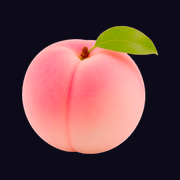
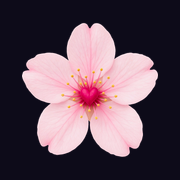
로딩 화면에 피어나는 도화 사진을 넣고 브랜드 아이콘을 벚꽃으로 변경
- 분석·리포트 대기 화면에서 봉오리가 활짝 핀 꽃으로 피어나도록 실사 4단계 사진을 겹쳐 보여줌
- 분석 중 문구를 3개로 줄이고 2초씩 보여줌
- 파비콘·앱 아이콘·로고를 벚꽃으로 바꾸고, 헤더에는 '도화사주' 글자만 남김
- 리뷰 영역의 쓰지 않는 코드 정리

diff --git a/src/components/result/ReportWaiting.tsx b/src/components/result/ReportWaiting.tsx
@@ -4,12 +4,15 @@ import { AnimatePresence, motion } from "motion/react";
 import { useRouter } from "next/navigation";
 import { useCallback, useEffect, useState } from "react";
 import { Button } from "@/components/ui/Button";
-import { LogoMark } from "@/components/ui/LogoMark";
+import { BloomingBlossom } from "@/components/ui/BloomingBlossom";
 import { REPORT_WRITING_MESSAGES } from "@/lib/constants/service";
 
 const POLL_INTERVAL_MS = 3000;
 const MESSAGE_INTERVAL_MS = 4000;
 const GIVE_UP_AFTER_MS = 6 * 60 * 1000;
+/** 리포트는 보통 1~2분 걸리니, 그동안 꽃이 천천히 거의 다 피도록 한다. 실제 진행률은 아니다. */
+const BLOOM_TIME_CONSTANT_MS = 45 * 1000;
+const MAX_PENDING_BLOOM = 0.95;
 
 type Phase = "writing" | "failed";
 
@@ -19,6 +22,19 @@ export function ReportWaiting({ token, failed }: { token: string; failed: boolea
   const [phase, setPhase] = useState<Phase>(failed ? "failed" : "writing");
   const [messageIndex, setMessageIndex] = useState(0);
   const [retryError, setRetryError] = useState<string | null>(null);
+  const [elapsedMs, setElapsedMs] = useState(0);
+
+  useEffect(() => {
+    if (phase !== "writing") return;
+    const startedAt = Date.now();
+    const timer = window.setInterval(() => setElapsedMs(Date.now() - startedAt), 1000);
+    return () => {
+      window.clearInterval(timer);
+      setElapsedMs(0);
+    };
+  }, [phase]);
+
+  const bloom = Math.min(1 - Math.exp(-elapsedMs / BLOOM_TIME_CONSTANT_MS), MAX_PENDING_BLOOM);
 
   useEffect(() => {
     if (phase !== "writing") return;
@@ -84,7 +100,7 @@ export function ReportWaiting({ token, failed }: { token: string; failed: boolea
       <div className="relative flex h-40 w-40 items-center justify-center">
         <div className="absolute inset-0 rounded-full border border-line animate-spin-celestial" />
         <div className="absolute inset-0 rounded-full bg-cinnabar/10 blur-2xl animate-breathe" />
-        <LogoMark size={64} className="relative animate-breathe" />
+        <BloomingBlossom bloom={bloom} size={128} />
       </div>
 
       <AnimatePresence mode="wait">

diff --git a/src/components/ui/BloomingBlossom.tsx b/src/components/ui/BloomingBlossom.tsx
@@ -1,0 +1,39 @@
+import Image from "next/image";
+
+type BloomingBlossomProps = {
+  /** 0이면 닫힌 봉오리, 1이면 활짝 핀 꽃 */
+  bloom: number;
+  size?: number;
+  className?: string;
+};
+
+const STAGES = ["/images/bloom/peach-bloom-1.jpg", "/images/bloom/peach-bloom-2.jpg", "/images/bloom/peach-bloom-3.jpg", "/images/bloom/peach-bloom-4.jpg"];
+const EDGE_FADE = "radial-gradient(circle at 50% 50%, black 50%, transparent 71%)";
+
+const clamp01 = (value: number) => Math.min(1, Math.max(0, value));
+
+/** 기다리는 동안 봉오리가 꽃으로 피어나는 도화 사진. 다음 단계 사진이 위에 서서히 겹쳐진다. */
+export function BloomingBlossom({ bloom, size = 96, className }: BloomingBlossomProps) {
+  const position = clamp01(bloom) * (STAGES.length - 1);
+
+  return (
+    <div
+      aria-hidden
+      className={`relative overflow-hidden rounded-full mix-blend-screen ${className ?? ""}`}
+      style={{ width: size, height: size, maskImage: EDGE_FADE, WebkitMaskImage: EDGE_FADE }}
+    >
+      {STAGES.map((src, i) => (
+        <Image
+          key={src}
+          src={src}
+          alt=""
+          fill
+          sizes={`${size}px`}
+          loading="eager"
+          className="object-cover transition-opacity duration-[1800ms] ease-out"
+          style={{ opacity: i === 0 ? 1 : clamp01(position - i + 1) }}
+        />
+      ))}
+    </div>
+  );
+}

diff --git a/src/components/analyzing/AnalyzingExperience.tsx b/src/components/analyzing/AnalyzingExperience.tsx
@@ -4,7 +4,7 @@ import { AnimatePresence, motion } from "motion/react";
 import { useRouter } from "next/navigation";
 import { useCallback, useEffect, useRef, useState } from "react";
 import { Button, ButtonLink } from "@/components/ui/Button";
-import { LogoMark } from "@/components/ui/LogoMark";
+import { BloomingBlossom } from "@/components/ui/BloomingBlossom";
 import {
   clearAnalysisToken,
   clearPendingAnalysis,
@@ -15,7 +15,7 @@ import {
 import { ANALYSIS_MESSAGES } from "@/lib/constants/service";
 import { analysisInputSchema } from "@/lib/validation/analysisInput";
 
-const MESSAGE_INTERVAL_MS = 1600;
+const MESSAGE_INTERVAL_MS = 2000;
 /** 계산은 금방 끝나지만, 의식처럼 보이도록 문구가 모두 지나갈 때까지는 보여준다. */
 const MIN_RITUAL_MS = MESSAGE_INTERVAL_MS * ANALYSIS_MESSAGES.length;
 const REDIRECT_DELAY_MS = 1400;
@@ -189,7 +189,7 @@ export function AnalyzingExperience() {
         </svg>
         <div className="absolute inset-6 rounded-full border border-line animate-spin-celestial" />
         <div className="absolute inset-0 rounded-full bg-gold/5 blur-2xl animate-breathe" />
-        <LogoMark size={72} className="relative animate-breathe" />
+        <BloomingBlossom bloom={progress} size={140} />
       </div>
 
       <div className="flex min-h-24 flex-col items-center justify-center px-4">

diff --git a/src/components/layout/PageShell.tsx b/src/components/layout/PageShell.tsx
@@ -1,7 +1,6 @@
 import Link from "next/link";
 import type { ReactNode } from "react";
 import { NightGardenBackground } from "@/components/night/NightGardenBackground";
-import { LogoMark } from "@/components/ui/LogoMark";
 import { SERVICE } from "@/lib/constants/service";
 
 type PageShellProps = {
@@ -21,13 +20,9 @@ export function PageShell({ children, showHeader = true, showFooter = true, inte
       {showHeader && (
         <header className="sticky top-0 z-30 border-b border-line/50 bg-ink/60 backdrop-blur-md">
           <div className="mx-auto flex h-14 max-w-xl items-center justify-between px-5">
-            <Link href="/" className="flex items-center gap-2.5">
-              <LogoMark size={26} />
+            <Link href="/">
               <span className="font-serif text-[15px] tracking-[0.2em] text-gold-soft">{SERVICE.name}</span>
             </Link>
-            <span className="font-display text-[11px] uppercase tracking-[0.3em] text-mist-dim">
-              {SERVICE.tagline}
-            </span>
           </div>
         </header>
       )}

diff --git a/src/lib/constants/service.ts b/src/lib/constants/service.ts
@@ -30,10 +30,9 @@ export const DETAILED_REPORT_PRICE = 19900;
 export const formatPrice = (won: number) => `${won.toLocaleString("ko-KR")}원`;
 
 export const ANALYSIS_MESSAGES = [
-  "네가 태어난 밤의 하늘을 펼치는 중이란다.",
-  "만세력으로 네 여덟 글자를 세우고 있지.",
-  "글자 사이에 숨은 도화의 기운을 찾고 있구나.",
-  "네 꽃이 얼마나 피었는지 재어 보는 중이니, 조금만 기다리거라.",
+  "네 꽃을 끝까지 펼치는 중이란다.",
+  "숨은 도화의 기운을 찾고 있구나.",
+  "네게 감겨들 인연의 때를 헤아리는 중이구나.",
 ] as const;
 
 /** 결제 후 리포트를 쓰는 동안 보여주는 문구 */

diff --git a/src/components/ui/LogoMark.tsx b/src/components/ui/LogoMark.tsx
@@ -5,11 +5,11 @@ type LogoMarkProps = {
   className?: string;
 };
 
-/** 복숭아 로고. 파비콘(src/app/icon.png)과 같은 그림이다. */
+/** 벚꽃 로고. 파비콘(src/app/icon.png)과 같은 그림이다. */
 export function LogoMark({ size = 56, className }: LogoMarkProps) {
   return (
     <Image
-      src="/images/logo-peach-pink.png"
+      src="/images/logo-sakura.png"
       alt="도화사주 로고"
       width={size}
       height={size}

diff --git a/src/components/result/ReviewCarousel.tsx b/src/components/result/ReviewCarousel.tsx
@@ -2,8 +2,6 @@
 
 import { useRef, useState } from "react";
 import { REVIEWS, REVIEWS_INCLUDE_SAMPLES, REVIEW_AVERAGE } from "@/lib/constants/result";
-import { SERVICE } from "@/lib/constants/service";
-
 export function ReviewCarousel() {
   const listRef = useRef<HTMLUListElement>(null);
   const [active, setActive] = useState(0);
